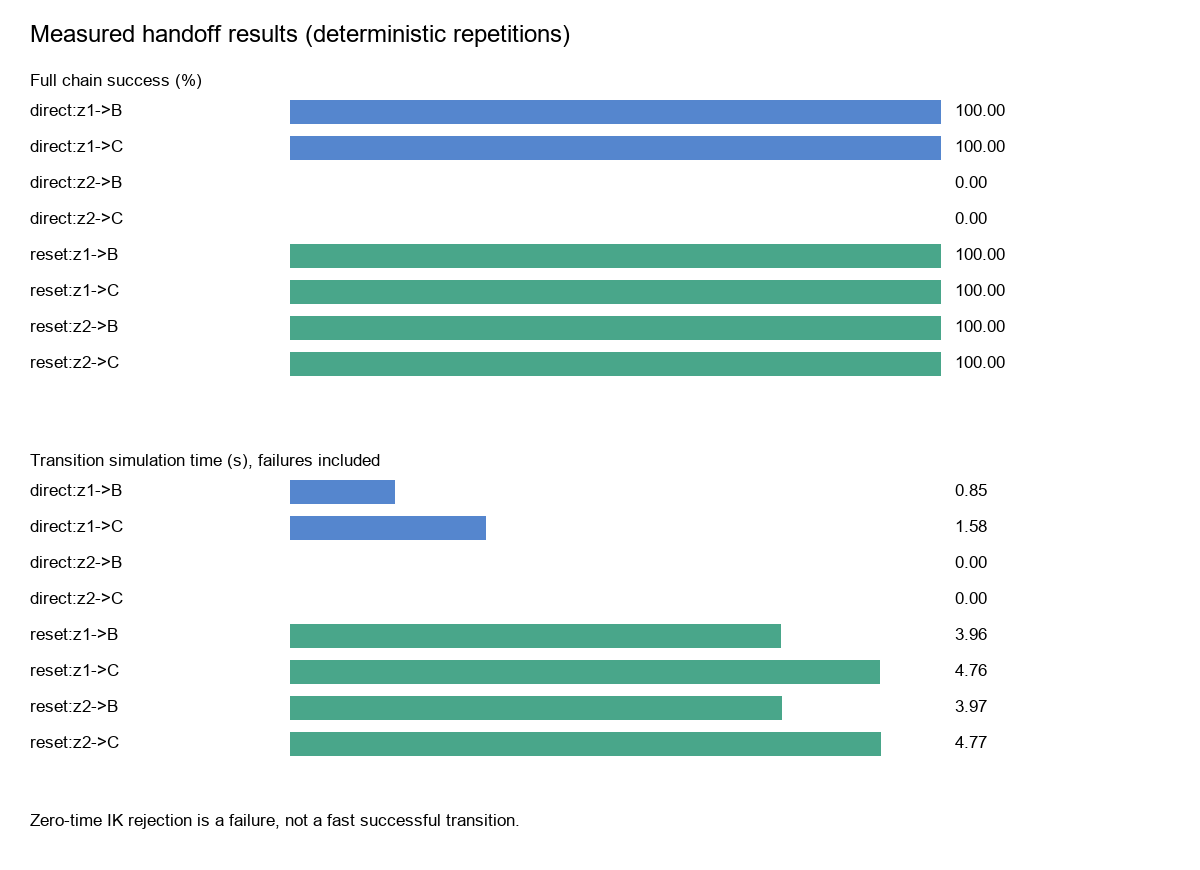
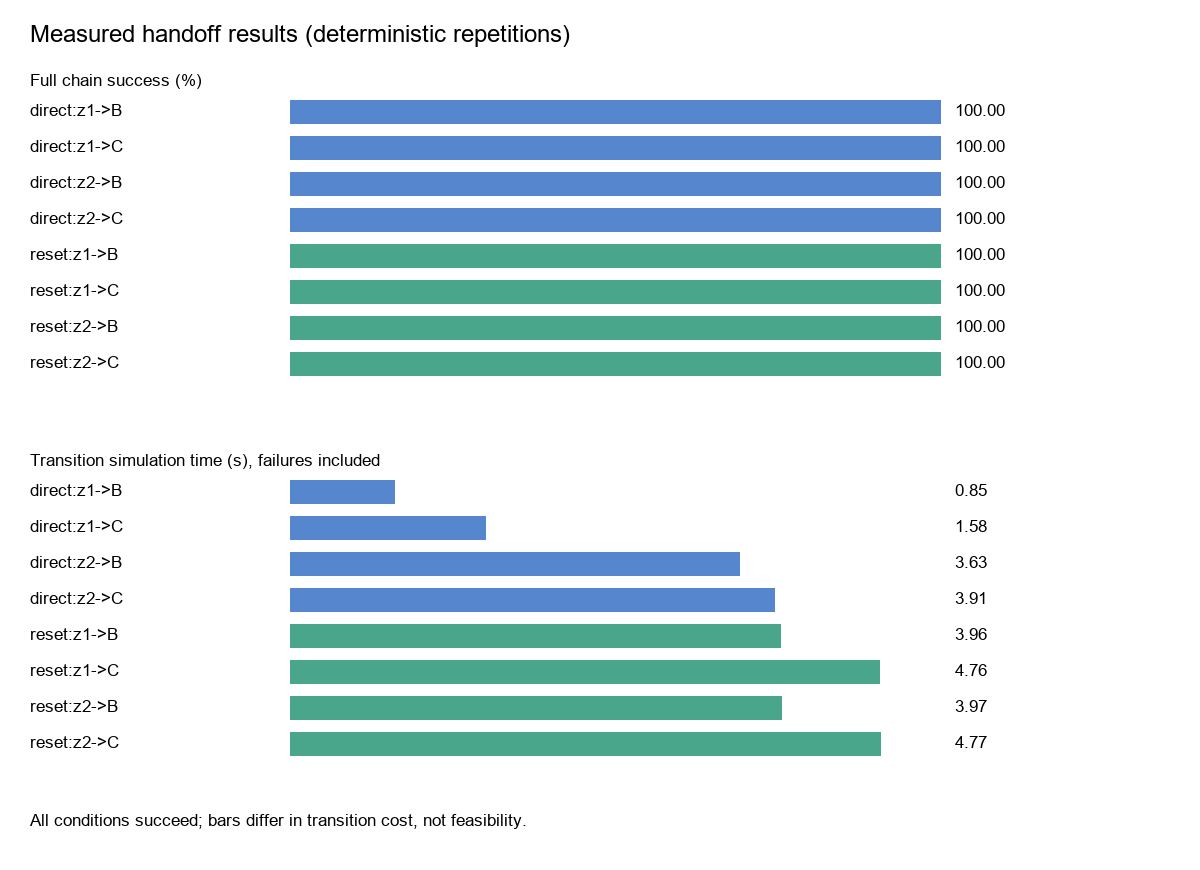
修复 IK 关节角 2π 未归一的假阴性并重跑实验
solve() 增加 2π 等价角折算与限位复检；z2 直接交接不再被误判为 ik_joint_limits。补充 ik_wrapped 字段、重跑 80 次试验、更新对比图与文档。

diff --git a/src/robot_controller.py b/src/robot_controller.py
@@ -2,12 +2,38 @@
 import numpy as np
 import pybullet as p
 
+TWO_PI = 2.0 * np.pi
+
+
+def wrap_into_limits(q, lower, upper, rest, tol=1e-5):
+    """把 IK 候选折算成同一物理构型的限位内等价角。
+
+    旋转关节相差 2π 时末端位姿完全相同，但 PyBullet 可能直接返回限位外的
+    角度（例如 5.483 rad 与 -0.801 rad 等价）。这里只做等价折算，不改变
+    机械臂构型；若某关节不存在限位内等价角，则保留原值交给调用方判定失败。
+    """
+    q = np.asarray(q, dtype=float).copy()
+    rest = np.asarray(rest, dtype=float)
+    wrapped = np.zeros(q.shape, dtype=bool)
+    for i in range(q.size):
+        if lower[i] - tol <= q[i] <= upper[i] + tol:
+            continue
+        candidates = [q[i] + TWO_PI * k for k in (-2, -1, 1, 2)]
+        feasible = [v for v in candidates if lower[i] - tol <= v <= upper[i] + tol]
+        if not feasible:
+            continue
+        q[i] = min(feasible, key=lambda v: abs(v - rest[i]))
+        wrapped[i] = True
+    return q, wrapped
+
+
 class MotionResult:
     def __init__(self, success, reason, seconds, distance, ik, reached, collision, limit, error):
         self.success, self.reason = success, reason
         self.seconds, self.distance = seconds, distance
         self.ik, self.reached = ik, reached
         self.collision, self.limit, self.error = collision, limit, error
+        self.ik_wrapped = False
 
 class RobotController:
     def __init__(self, sim, max_steps=1800):
@@ -15,13 +41,14 @@ class RobotController:
 
     def solve(self, position, orientation, rest=None):
         s = self.sim
+        seed = s.q() if rest is None else np.asarray(rest, dtype=float)
         result = p.calculateInverseKinematics(s.robot, s.ee, position, orientation,
             lowerLimits=s.lower.tolist(), upperLimits=s.upper.tolist(),
-            jointRanges=(s.upper-s.lower).tolist(), restPoses=(s.q() if rest is None else rest).tolist(),
+            jointRanges=(s.upper-s.lower).tolist(), restPoses=seed.tolist(),
             maxNumIterations=200, residualThreshold=1e-5, physicsClientId=s.client)
-        q = np.asarray(result[:7])
+        q, wrapped = wrap_into_limits(np.asarray(result[:7]), s.lower, s.upper, seed)
         ok = bool(np.all(q >= s.lower - 1e-5) and np.all(q <= s.upper + 1e-5))
-        return q, ok
+        return q, ok, wrapped
 
     def move(self, target, sim_steps=None):
         s = self.sim
@@ -55,10 +82,11 @@ class RobotController:
                             distance, True, reached, False, False, err)
 
     def move_pose(self, position, orientation, sim_steps=None):
-        q, ik = self.solve(position, orientation)
+        q, ik, wrapped = self.solve(position, orientation)
         if not ik:
             return MotionResult(False, 'ik_joint_limits', 0, 0, False, False, False, False, None)
         result = self.move(q, sim_steps)
+        result.ik_wrapped = bool(np.any(wrapped))
         actual, quat = self.sim.pose()
         result.position_error_m = float(np.linalg.norm(actual - np.asarray(position)))
         result.orientation_error_rad = float(2 * np.arccos(np.clip(abs(np.dot(quat, orientation)), 0, 1)))

diff --git a/scripts/run_experiment.py b/scripts/run_experiment.py
@@ -41,7 +41,8 @@ def run_once(implementation, successor, canonical=False):
             'recovery_reason': None if recovery is None else recovery.reason,
             'recovery_seconds': None if recovery is None else recovery.seconds,
             'recovery_distance': None if recovery is None else recovery.distance,
-            'ik_solvable': successor_result.ik, 'collision': successor_result.collision,
+            'ik_solvable': successor_result.ik, 'ik_wrapped': successor_result.ik_wrapped,
+            'collision': successor_result.collision,
             'joint_limit': successor_result.limit, 'reached': successor_result.reached,
             'successor_success': successor_result.success,
             'successor_reason': successor_result.reason, 'successor_seconds': successor_result.seconds,
@@ -80,6 +81,7 @@ def main():
         summary.append({'condition': condition, 'n': len(group),
                         'a_success_rate': np.mean([r['a_success'] for r in group]),
                         'ik_rate': np.mean([r['ik_solvable'] for r in group]),
+                        'ik_wrapped_rate': np.mean([r['ik_wrapped'] for r in group]),
                         'reached_rate': np.mean([r['reached'] for r in group]),
                         'success_rate': np.mean([r['successor_success'] for r in group]),
                         'mean_successor_seconds': np.mean([r['successor_seconds'] for r in group]),

diff --git a/scripts/run_demo.py b/scripts/run_demo.py
@@ -59,8 +59,10 @@ def main():
             print(f'  后继: {result.success} ({result.reason})')
             color = (0, 0.6, 0) if result.success else (0.8, 0, 0)
             status(f'{title} | {"SUCCESS" if result.success else "FAILED: " + result.reason}', color)
+            if getattr(result, 'ik_wrapped', False):
+                print('  IK 候选经 2π 等价折算后落入关节限位，按该等价角执行。')
             if result.reason == 'ik_joint_limits':
-                print('  IK 候选超出关节限位，拒绝执行；机械臂保持 A 终态，不是窗口卡住。')
+                print('  IK 候选超出关节限位且无等价角，拒绝执行；机械臂保持 A 终态，不是窗口卡住。')
             print('  当前画面保持 3 秒。')
             time.sleep(3)
         print('四种情况播放完毕，窗口保持 5 秒。')

diff --git a/scripts/plot_results.py b/scripts/plot_results.py
@@ -31,7 +31,7 @@ def main():
             if width:
                 draw.rectangle((290, y, 290 + width, y + 23), fill=color)
             draw.text((955, y), f'{value:.2f}', fill='black', font=font)
-    draw.text((30, 810), 'Zero-time IK rejection is a failure, not a fast successful transition.', fill='black', font=font)
+    draw.text((30, 810), 'All conditions succeed; bars differ in transition cost, not feasibility.', fill='black', font=font)
     image.save(OUT / 'comparison.png')
     print(OUT / 'comparison.png')
 

diff --git a/docs/experiment_notes.md b/docs/experiment_notes.md
@@ -12,20 +12,22 @@
 
 - 内容：A 的两个实现经过真实电机运动到同一区域，不同末端姿态留下不同关节角；直接执行 B/C，或先真实运动恢复 HOME。
 - API：`getLinkState` 测量真实末端、`getJointInfo` 查询极限、`getContactPoints` 检测离散接触。
-- 观察：当前 z2 的局部后继 IK 候选超限；通过公共关节构型恢复后能够到达 B/C。
-- 验证：CSV 包含 A 的关节角和位姿、后继误差、失败原因及恢复成本。80 次试验成功运行，确定性重复结果一致。
-- 与 VLA 的关系：展示局部控制器的起始状态依赖；还没有策略学习、语言输入、训练/测试组合划分或真实操作。
+- 观察：z2 的后继 IK 候选最初被判超限，实际是 2π 未归一的假阴性；折算后四组直接交接均成功，z2 只是关节行程更大（3.24/3.51 rad 对 0.57/1.28 rad）。
+- 验证：CSV 包含 A 的关节角和位姿、后继误差、`ik_wrapped` 标记及恢复成本。80 次试验成功运行，确定性重复结果一致；8 个条件全部 10/10。
+- 与 VLA 的关系：展示起始状态影响的是交接代价而不是可行性；还没有策略学习、语言输入、训练/测试组合划分或真实操作。
 
 ## 重要边界
 
-1. `ik_solvable` 实际表示本次局部 IK 产生了限位内候选，不是全局可解性的数学证明；完整末端追踪另行检验。
-2. 插值运动中每个物理时间步检查碰撞；没有单独的几何规划器，也没有连续碰撞或完整路径搜索证明。
-3. `reached` 要求关节及末端姿态误差满足阈值；`successor_success` 还受碰撞和越界中断影响。
-4. `chain_success_rate` 要求 A、可选恢复和后继均成功，避免把恢复失败后的偶然到达算整链成功。
-5. 不涉及抓取、接触操作或魔方转面，立方体是静态几何参照。
-6. 重复是工程复现检查，而非鲁棒性统计。种子作为复现元数据保留；目前没有随机化物理条件。
-7. 失败路径可能短或零耗时，成本比较必须先看成功；不能按最短耗时选择失败控制器。
-8. 公共 HOME 是关节构型，而非仅公共末端位置。仅将末端恢复同一位姿不能保证冗余机械臂具有相同交接关节状态。
+1. `ik_solvable` 实际表示本次局部 IK 产生了限位内候选（含 2π 等价折算后的候选），不是全局可解性的数学证明；完整末端追踪另行检验。`ik_wrapped` 标记是否发生了折算。
+2. 2π 折算只对旋转关节成立：相差 2π 的角度对应完全相同构型。若某关节不存在限位内等价角，仍按超限失败处理。
+3. 折算改变的是关节角数值而非物理构型，但可能显著增加关节行程和耗时，因此折算后的耗时不能与未折算情况直接比较。
+4. 插值运动中每个物理时间步检查碰撞；没有单独的几何规划器，也没有连续碰撞或完整路径搜索证明。
+5. `reached` 要求关节及末端姿态误差满足阈值；`successor_success` 还受碰撞和越界中断影响。
+6. `chain_success_rate` 要求 A、可选恢复和后继均成功，避免把恢复失败后的偶然到达算整链成功。
+7. 不涉及抓取、接触操作或魔方转面，立方体是静态几何参照。
+8. 重复是工程复现检查，而非鲁棒性统计。种子作为复现元数据保留；目前没有随机化物理条件。
+9. 失败路径可能短或零耗时，成本比较必须先看成功；不能按最短耗时选择失败控制器。
+10. 公共 HOME 是关节构型，而非仅公共末端位置。仅将末端恢复同一位姿不能保证冗余机械臂具有相同交接关节状态。
 
 ## 调试历史
 
@@ -35,5 +37,6 @@
 - 最终 conda-forge 原生 Windows PyBullet 3.2.5 可导入且 GUI 正常。
 - 首版动作预算过短；增加统一预算并补充收敛等待和实际位姿判据。
 - 首版公共末端姿态恢复触发局部 IK 分支限制，改为通过电机恢复明确的 HOME 关节构型。
+- z2 直接交接被误判为 `ik_joint_limits`：PyBullet 返回第 7 关节 5.483 rad，与 -0.801 rad 相差 2π，属同一构型。补 2π 等价折算与限位复检后，四组直接交接均成功，原 0/10 结论作废，`ik_wrapped` 字段保留该诊断信息。
 
-下一步优先加入多起点 IK 与更强路径规划作控制器对照，再预注册扰动范围和种子进行鲁棒性检查；否则不能区分物理状态困难与局部求解器缺陷。不要反复调目标直到出现想要的交叉结果后再报告为预先假设验证。
+下一步优先加入路径规划与碰撞规避作控制器对照，再预注册扰动范围和种子进行鲁棒性检查。判断失败前必须区分“不存在几何解、求解器未找到解、解存在但路径不可行、路径可行但执行失败”，避免把求解器假阴性当成物理限制。不要反复调目标直到出现想要的交叉结果后再报告为预先假设验证。

diff --git a/README.md b/README.md
@@ -19,7 +19,7 @@ Set-Location 'D:\python\simulate'
 & '.\.conda312\python.exe' '.\scripts\plot_results.py'
 ```
 
-演示窗口自动运行两次运动，显示关节角，结束前保持 5 秒。重新运行演示即可从初始状态重复动作。`Simulation.reset()` 也支持在现有连接中重新初始化。实验覆盖 8 个条件（4 组直接交接及各自恢复对照），每组 10 次，总计 80 次。增加 `--trials` 可增加次数。程序覆盖同名结果；需要保留旧实验时请先复制 `results`。
+演示窗口依次播放 `z1→B`、`z1→C`、`z2→B`、`z2→C` 四种直接交接，画面标注当前阶段和成功/失败原因，不写数据或截图；加 `--reset` 则每组先从 A 终态运动回 HOME 再执行后继。`Simulation.reset()` 支持在现有连接中重新初始化。实验覆盖 8 个条件（4 组直接交接及各自恢复对照），每组 10 次，总计 80 次。增加 `--trials` 可增加次数。程序覆盖同名结果；需要保留旧实验时请先复制 `results`。
 
 如需重建环境（以下仍为 PowerShell）：
 
@@ -39,26 +39,28 @@ A 的公共任务条件是接近同一区域且无非预期碰撞；两种实现
 
 ## 实测结果
 
-|条件|整链成功|平均交接时间（仿真秒，含恢复）|
-|---|---:|---:|
-|直接 z1→B|10/10|0.846|
-|直接 z1→C|10/10|1.579|
-|直接 z2→B|0/10|0（IK 候选被拒绝）|
-|直接 z2→C|0/10|0（IK 候选被拒绝）|
-|恢复 z1→B|10/10|3.958|
-|恢复 z1→C|10/10|4.763|
-|恢复 z2→B|10/10|3.967|
-|恢复 z2→C|10/10|4.771|
+|条件|整链成功|平均交接时间（仿真秒，含恢复）|关节行程（rad）|
+|---|---:|---:|---:|
+|直接 z1→B|10/10|0.846|0.571|
+|直接 z1→C|10/10|1.579|1.276|
+|直接 z2→B|10/10|3.629|3.241|
+|直接 z2→C|10/10|3.908|3.511|
+|恢复 z1→B|10/10|3.958|3.316|
+|恢复 z1→C|10/10|4.763|4.088|
+|恢复 z2→B|10/10|3.967|3.326|
+|恢复 z2→C|10/10|4.771|4.098|
 
-A 在所有条件均成功。z2 直接交接失败原因是当前局部 IK 返回的关节候选超出限位，**不能推断不存在其他 IK 解或其他可行路径**。恢复后当前控制器均成功。没有观察到“B 偏好 z1、C 偏好 z2”的交叉现象。
+A 在所有条件均成功，8 个条件全部 10/10。z2 直接交接时 PyBullet 的局部 IK 返回第 7 关节 5.483 rad，超出 ±2.967 rad 限位；但该值与 -0.801 rad 相差 2π，属于同一物理构型。控制器现在做 2π 等价折算后再判断限位，`results.csv` 的 `ik_wrapped` 记录该情况：只有 z2 直接交接两组为真，恢复后两组不需要折算。
 
-这些是确定性场景的重复运行，不是 10 次独立随机物理试验，不应解释为鲁棒成功概率。失败的零运动时间不是效率优势。轨迹长度为逐时间步实际关节变化的欧氏范数之和，单位 rad，不是末端空间路程。`joint_tracking_error_rad` 记录关节追踪误差；`position_error_actual_m` 记录末端位置误差。
+**此前的“z2 直接交接 0/10 失败”结论是求解器角度未归一的假阴性，已作废。** 修正后四组直接交接均能到达 B/C，z2 的差异只体现为更大的关节行程和更长的仿真耗时（约多 2.3–3.1 秒、多 2.2–2.7 rad），不是可行性差异。z1 在 B、C 上都比 z2 更省，因此**没有出现“B 偏好 z1、C 偏好 z2”的交叉现象**；当前场景中 z1/z2 的差别只是腕部绕转量，与后继目标的几何方向没有耦合。
+
+这些是确定性场景的重复运行，不是 10 次独立随机物理试验，不应解释为鲁棒成功概率；10 次重复结果完全一致，表中数值是确定性复现值而非分布估计。轨迹长度为逐时间步实际关节变化的欧氏范数之和，单位 rad，不是末端空间路程。`joint_tracking_error_rad` 记录关节追踪误差；`position_error_actual_m` 记录末端位置误差。
 
 ## 输出
 
-- `results/demo.png`、`demo_log.json`：GUI 演示截图和动作日志。
-- `results/results.csv`：逐次记录，包括 A 终态、失败原因和恢复成本。
-- `results/summary.csv`：8 组汇总，包含整链成功和恢复成本。
+- `results/demo.png`、`demo_log.json`：里程碑 1 的旧演示记录；当前 `run_demo.py` 不写文件。
+- `results/results.csv`：逐次记录，包括 A 终态、IK 是否经 2π 折算、失败原因和恢复成本。
+- `results/summary.csv`：8 组汇总，包含整链成功、`ik_wrapped_rate` 和恢复成本。
 - `results/experiment_config.json`：种子、次数及时间步。
 - `results/comparison.png`：由真实汇总绘制的成功率与时间对比。
 - `docs/experiment_notes.md`：指标边界和学习要点。
